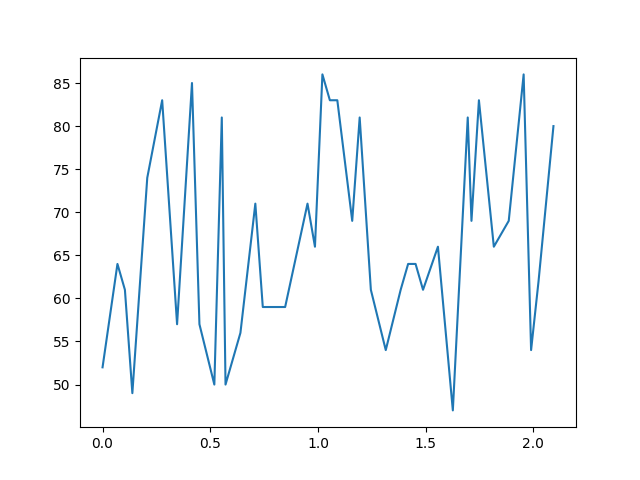
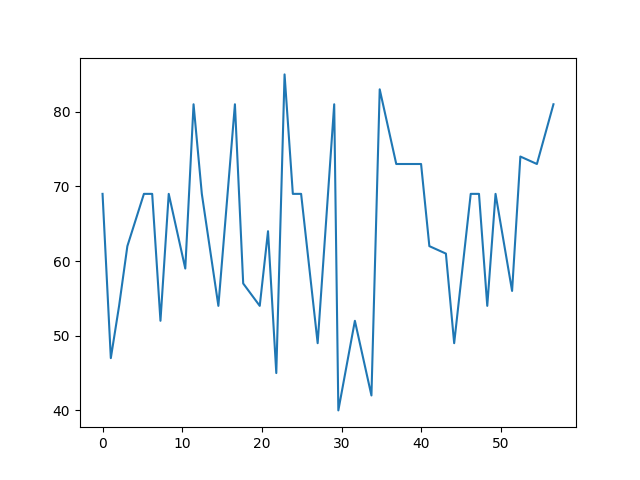
graph

diff --git a/Project/main.py b/Project/main.py
@@ -20,7 +20,7 @@ class Chain_Factory:
         for i in range(40):
             new_processing_note = self.markov_chain.get_next(
                 last_processed_note)
-            thisdic.update({j/10000:new_processing_note.note})
+            thisdic.update({j*0.003:new_processing_note.note})
             j=j+new_processing_note.duration
             message = [
                 md.Message('note_on', note=new_processing_note.note, velocity=127,
